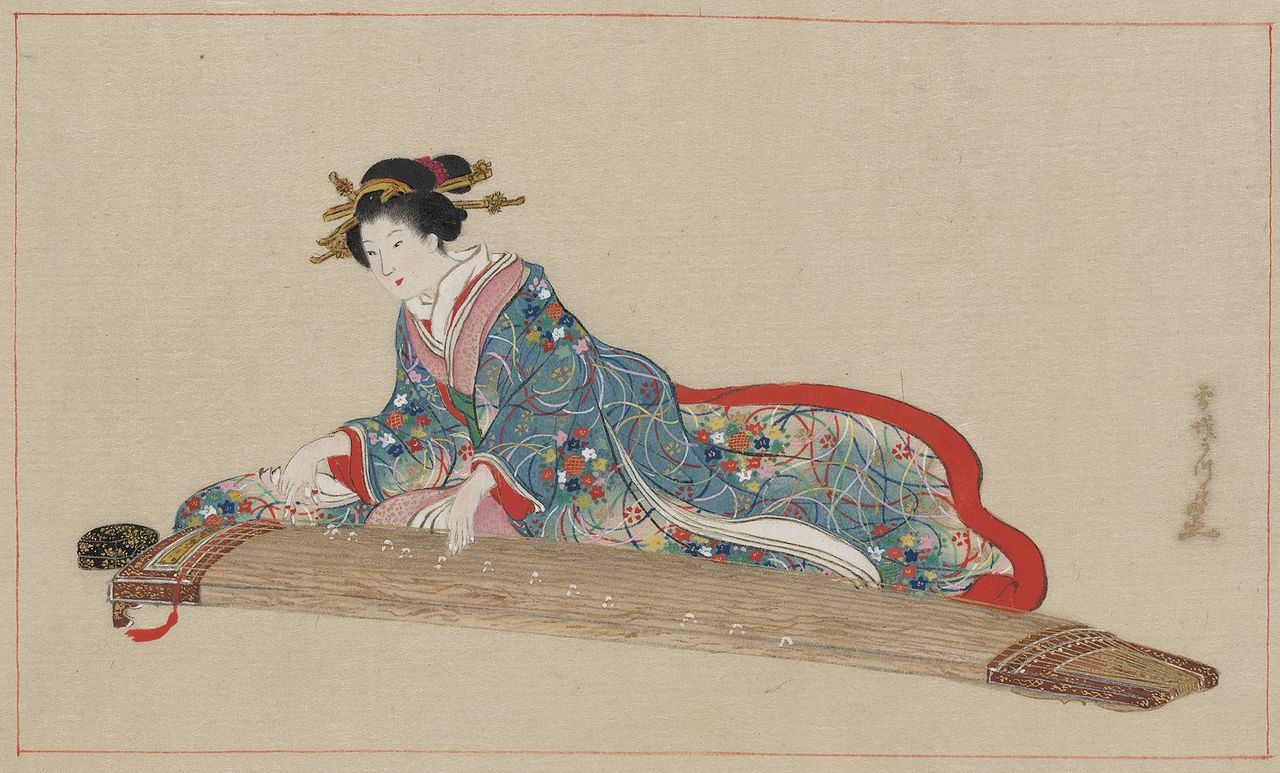
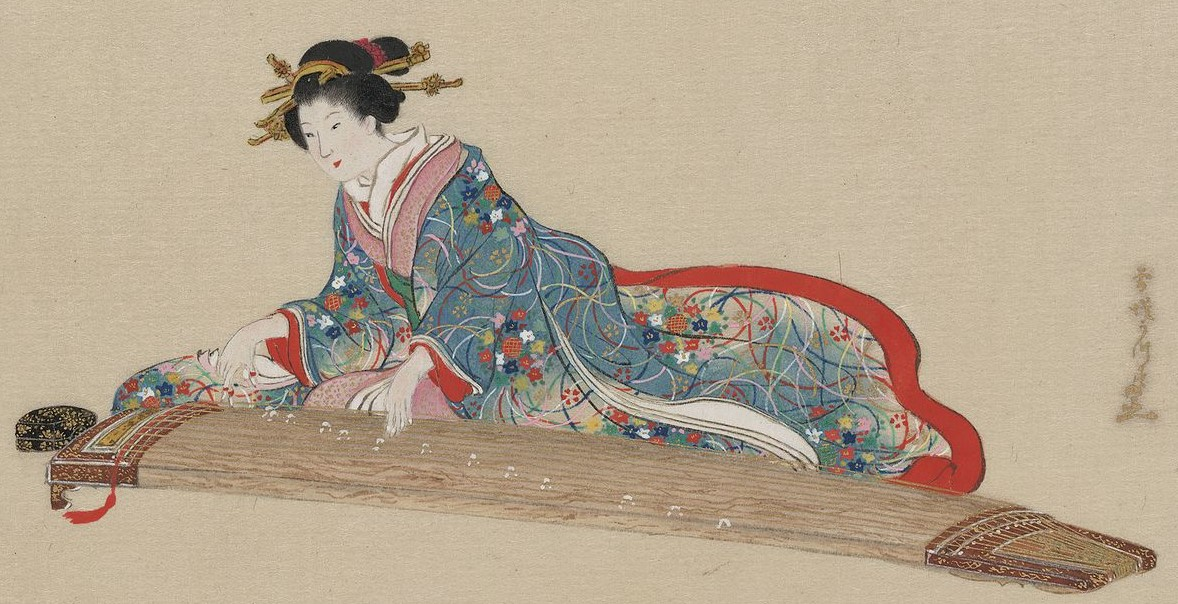
Edited hero image, added new google font family css, edited css for hero for desktop and mobile screens, added background colour

diff --git a/index.html b/index.html
@@ -4,11 +4,37 @@
     <meta charset="UTF-8" />
     <meta http-equiv="X-UA-Compatible" content="IE=edge" />
     <meta name="viewport" content="width=device-width, initial-scale=1.0" />
+    <link rel="stylesheet" href="src/style.css" />
+    <link rel="preconnect" href="https://fonts.googleapis.com" />
+    <link rel="preconnect" href="https://fonts.gstatic.com" crossorigin />
+    <link
+      href="https://fonts.googleapis.com/css2?family=Dancing+Script:wght@400;700&display=swap"
+      rel="stylesheet"
+    />
     <title>Koto - a traditional Japanese stringed instrument</title>
   </head>
   <body>
-    <h3>Music</h3>
-    <h1>Koto</h1>
-    <h2>A traditional Japanese stringed instrument</h2>
+    <div class="container">
+      <header>
+        <h3>
+          <span class="emoji">⚪</span> Music <span class="emoji">⚪</span>
+        </h3>
+        <h1>Koto</h1>
+        <h2>a stringed instrument from Japan</h2>
+        <button class="learn-button">
+          <a
+            href="https://en.wikipedia.org/wiki/Koto_(instrument)"
+            target="_blank"
+            >Learn more</a
+          >
+        </button>
+      </header>
+      <footer>
+        This website was coded by Grishma V. and is
+        <a href="https://github.com/grishmav87/koto-project" target="_blank"
+          >open-sourced</a
+        >
+      </footer>
+    </div>
   </body>
 </html>

diff --git a/src/style.css b/src/style.css
@@ -1,0 +1,70 @@
+body {
+  background-color: #e7dadb;
+  opacity: 0.95;
+}
+
+.container {
+  max-width: 1400px;
+  margin: 0 auto;
+}
+header {
+  background-image: linear-gradient(rgba(0, 0, 0, 0.4), rgba(0, 0, 0, 0.4)),
+    url(../images/Koto_musician_painting_by_Hasegawa_1878.jpg);
+  background-size: cover;
+  background-repeat: no-repeat;
+  text-align: center;
+  color: white;
+  padding: 60px 50px;
+  font-family: "Dancing Script", cursive;
+}
+
+.emoji {
+  font-size: 8px;
+}
+h3 {
+  padding-top: 70px;
+  font-size: 40px;
+  margin: 30px;
+}
+h1 {
+  font-size: 96px;
+  margin: 0;
+}
+h2 {
+  font-size: 64px;
+  margin: 30px;
+}
+.learn-button {
+  margin: 30px;
+  padding: 7px 20px;
+  border-radius: 30px;
+  border: 1px solid pink;
+  font-size: 36px;
+  font-family: "Dancing Script", cursive;
+  font-weight: 700px;
+  color: white;
+  background: #866c69;
+}
+a {
+  text-decoration: none;
+  color: white;
+}
+@media (max-width: 800px) {
+  h1 {
+    font-size: 48px;
+  }
+  h2 {
+    font-size: 32px;
+  }
+  h3 {
+    font-size: 20px;
+    margin: 10px;
+  }
+  .learn-button {
+    font-size: 20px;
+  }
+  header {
+    background-size: auto;
+    padding: 30px;
+  }
+}
